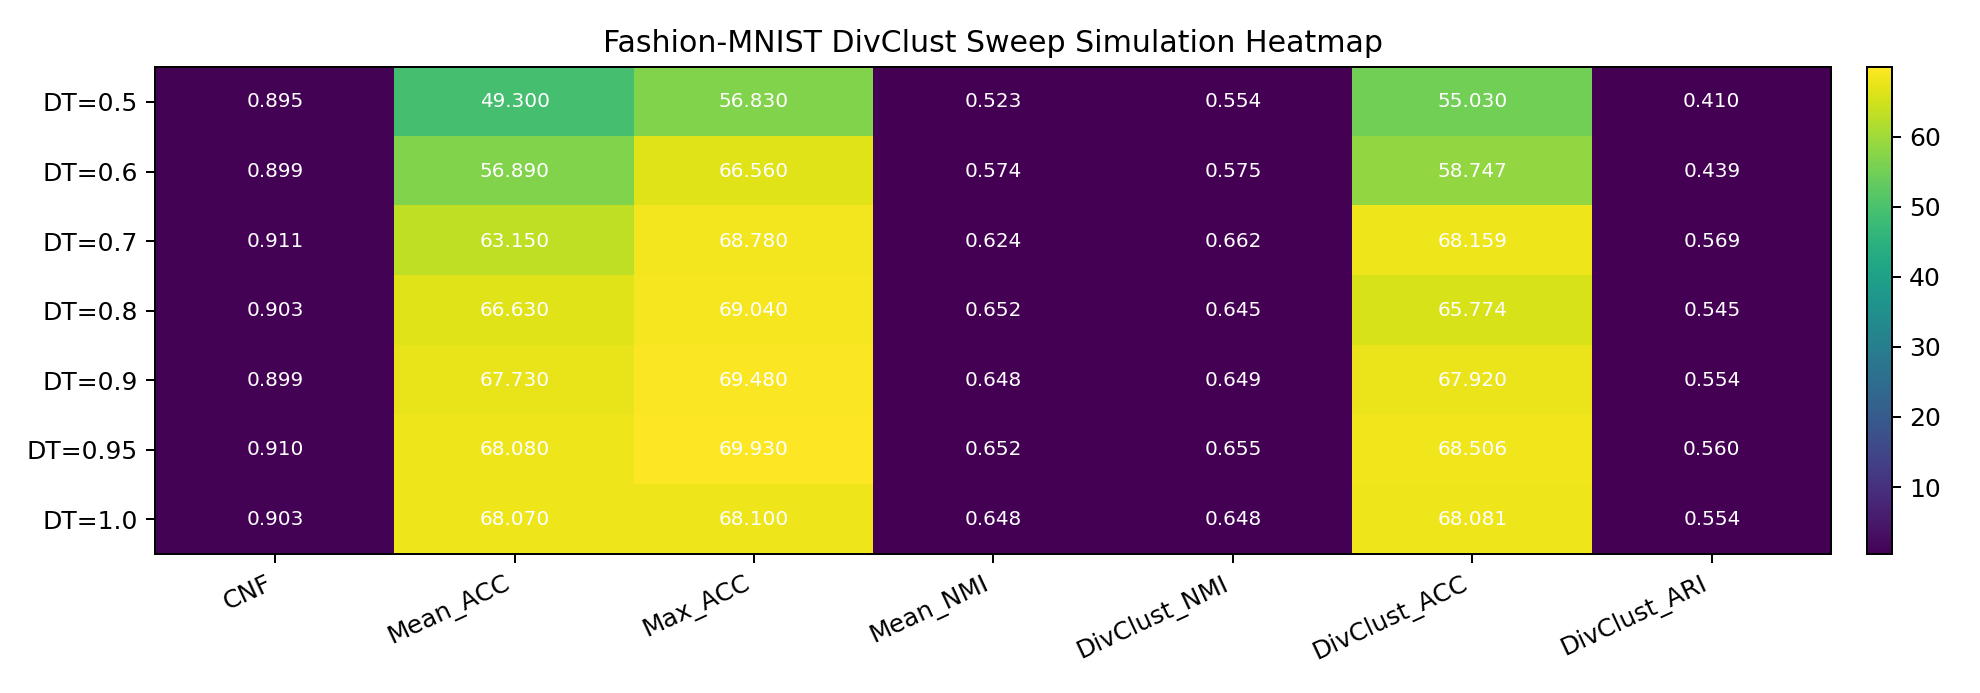
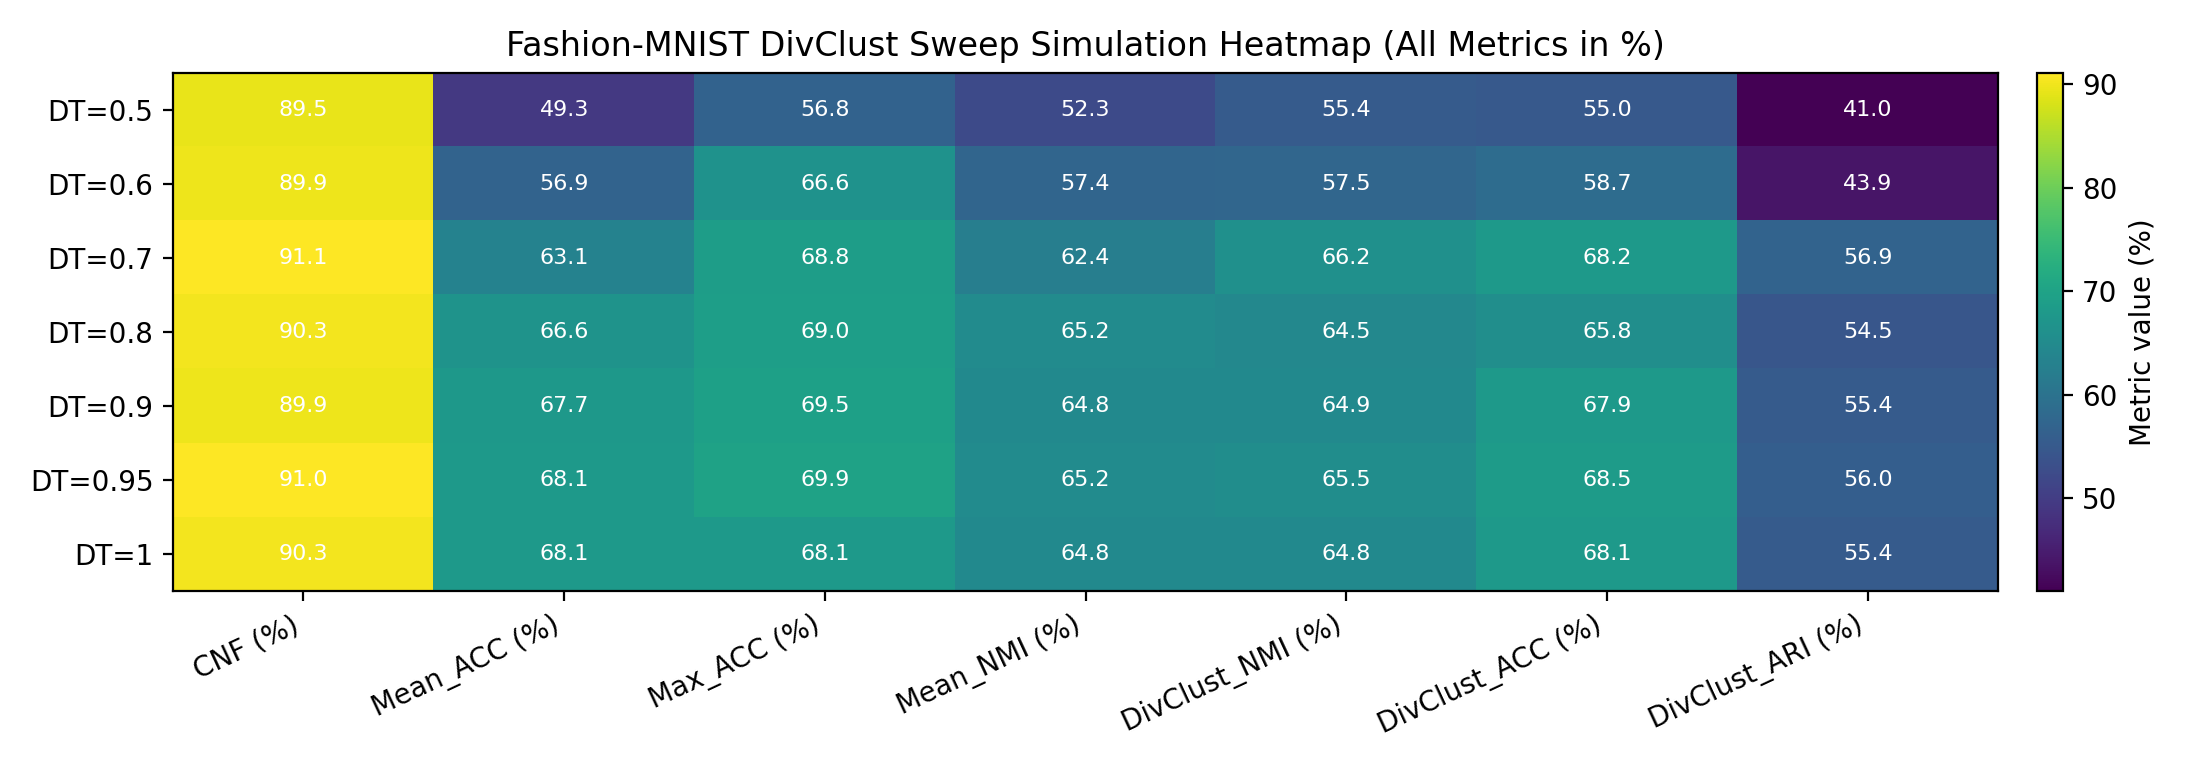
Normalize heatmap metrics to percentage scale

diff --git a/artifacts/fmnist_divclust_vanda_e100_2026-03-29/run_assets/fmnist_sweep_report.py b/artifacts/fmnist_divclust_vanda_e100_2026-03-29/run_assets/fmnist_sweep_report.py
@@ -23,14 +23,18 @@ METRIC_KEYS = [
 ]
 
 HEATMAP_COLUMNS = [
-    "CNF",
-    "Mean_ACC",
-    "Max_ACC",
-    "Mean_NMI",
-    "DivClust_NMI",
-    "DivClust_ACC",
-    "DivClust_ARI",
+    "CNF (%)",
+    "Mean_ACC (%)",
+    "Max_ACC (%)",
+    "Mean_NMI (%)",
+    "DivClust_NMI (%)",
+    "DivClust_ACC (%)",
+    "DivClust_ARI (%)",
 ]
+
+# Convert all heatmap metrics to percentage for consistent coloring.
+# ACC metrics are already in percentage and keep scale factor 1.
+HEATMAP_PERCENT_SCALES = np.array([100.0, 1.0, 1.0, 100.0, 100.0, 1.0, 100.0], dtype=np.float64)
 
 
 @dataclass
@@ -290,25 +294,27 @@ def plot_accuracy_curves(output_dir: Path, curves: Dict[str, List[Tuple[int, flo
 def plot_heatmap(output_dir: Path, summaries: List[RunSummary]) -> Path:
     out_png = output_dir / "simulation_heatmap.png"
     dts = [r.dt for r in summaries]
-    matrix = np.array(
+    raw_matrix = np.array(
         [
             [r.cnf, r.mean_acc, r.max_acc, r.mean_nmi, r.divclust_nmi, r.divclust_acc, r.divclust_ari]
             for r in summaries
         ],
         dtype=np.float64,
     )
+    matrix = raw_matrix * HEATMAP_PERCENT_SCALES.reshape(1, -1)
 
     plt.figure(figsize=(11, max(3.8, 0.55 * len(dts))))
     im = plt.imshow(matrix, aspect="auto", cmap="viridis")
-    plt.colorbar(im, fraction=0.04, pad=0.02)
+    cbar = plt.colorbar(im, fraction=0.04, pad=0.02)
+    cbar.set_label("Metric value (%)")
     plt.xticks(np.arange(len(HEATMAP_COLUMNS)), HEATMAP_COLUMNS, rotation=25, ha="right")
     plt.yticks(np.arange(len(dts)), [f"DT={dt}" for dt in dts])
-    plt.title("Fashion-MNIST DivClust Sweep Simulation Heatmap")
+    plt.title("Fashion-MNIST DivClust Sweep Simulation Heatmap (All Metrics in %)")
 
     for i in range(matrix.shape[0]):
         for j in range(matrix.shape[1]):
             val = matrix[i, j]
-            text = "nan" if np.isnan(val) else f"{val:.3f}"
+            text = "nan" if np.isnan(val) else f"{val:.1f}"
             plt.text(j, i, text, ha="center", va="center", fontsize=8, color="white")
 
     plt.tight_layout()
